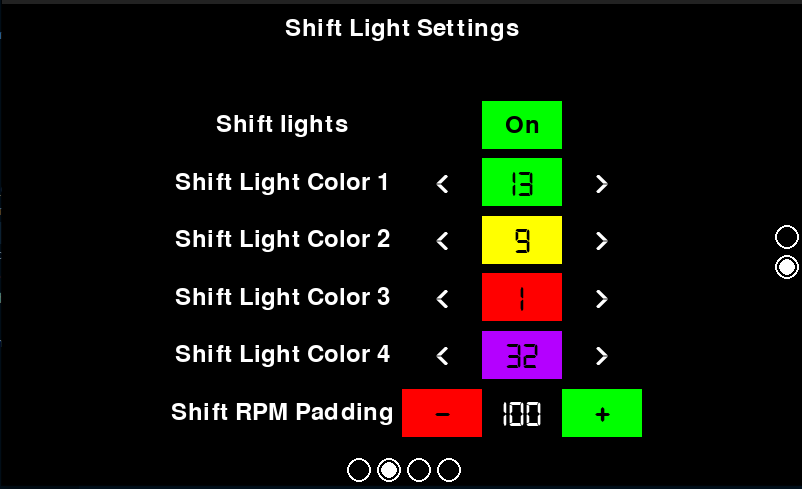
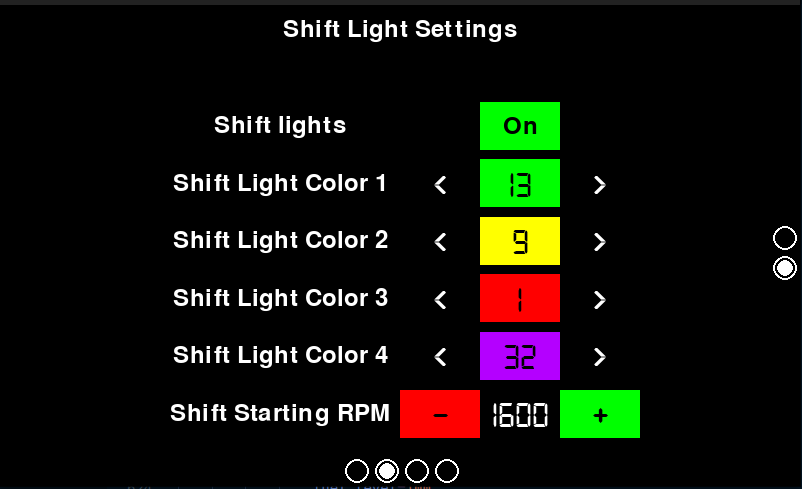
updating shift light settings

diff --git a/Dash/dash.py b/Dash/dash.py
@@ -445,17 +445,17 @@ def main():
 
                         # Check for collision with left rectangle
                         elif mouseX < SCREEN_WIDTH * 0.5 + SCREEN_WIDTH*.1 and mouseX > SCREEN_WIDTH * 0.5 and mouseY < SCREEN_HEIGHT*.8+SCREEN_HEIGHT*.1 and mouseY > SCREEN_HEIGHT*.8:
-                            shift_padding -= 10
+                            shift_padding += 10
 
-                            if shift_padding == 0:
-                                shift_padding = 10
+                            if shift_padding >= 210:
+                                shift_padding = 200
 
                         # Check for collision with right rectangle
                         elif mouseX < SCREEN_WIDTH * 0.7 + SCREEN_WIDTH*.1 and mouseX > SCREEN_WIDTH * 0.7 and mouseY < SCREEN_HEIGHT*.8+SCREEN_HEIGHT*.1 and mouseY > SCREEN_HEIGHT*.8:
-                            shift_padding += 10
+                            shift_padding -= 10
 
-                            if shift_padding == 1010:
-                                shift_padding = 1000
+                            if shift_padding <= 0:
+                                shift_padding = 10
 
                 skip = True
             elif event.type == pygame.MOUSEBUTTONUP:
@@ -583,19 +583,19 @@ def main():
 
                     # Check for collision with left rectangle
                     elif mouseX < SCREEN_WIDTH * 0.5 + SCREEN_WIDTH*.1 and mouseX > SCREEN_WIDTH * 0.5 and mouseY < SCREEN_HEIGHT*.8+SCREEN_HEIGHT*.1 and mouseY > SCREEN_HEIGHT*.8:
-                        shift_padding -= 10
+                        shift_padding += 10
 
-                        if shift_padding == 0:
-                            shift_padding = 10
+                        if shift_padding >= 210:
+                            shift_padding = 200
 
                     # Check for collision with right rectangle
                     elif mouseX < SCREEN_WIDTH * 0.7 + SCREEN_WIDTH*.1 and mouseX > SCREEN_WIDTH * 0.7 and mouseY < SCREEN_HEIGHT*.8+SCREEN_HEIGHT*.1 and mouseY > SCREEN_HEIGHT*.8:
-                        shift_padding += 10
+                        shift_padding -= 10
 
-                        if shift_padding == 1010:
-                            shift_padding = 1000
+                        if shift_padding <= 0:
+                            shift_padding = 10
 
-                time.sleep(.05)
+                time.sleep(.01)
             skip = False
 
         with open("Data/info.txt", "w") as file:
@@ -951,8 +951,8 @@ def main():
 
                 draw_text(screen, "-", font_medium, BLACK, SCREEN_WIDTH * 0.55, SCREEN_HEIGHT*.85)
                 draw_text(screen, "+", font_medium, BLACK, SCREEN_WIDTH * 0.75, SCREEN_HEIGHT*.85)
-                draw_text(screen, f"{shift_padding}", font_small, FONT_COLOR, (SCREEN_WIDTH//2)+SCREEN_WIDTH*.15, SCREEN_HEIGHT*.85)
-                draw_text(screen, "Shift RPM Padding", font_small_clean, FONT_COLOR, (SCREEN_WIDTH//2)-SCREEN_WIDTH*.15, SCREEN_HEIGHT*.85)
+                draw_text(screen, f"{SHIFT - (14 * shift_padding)}", font_small, FONT_COLOR, (SCREEN_WIDTH//2)+SCREEN_WIDTH*.15, SCREEN_HEIGHT*.85)
+                draw_text(screen, "Shift Starting RPM", font_small_clean, FONT_COLOR, (SCREEN_WIDTH//2)-SCREEN_WIDTH*.15, SCREEN_HEIGHT*.85)
 
             elif pages[current_page[0]][current_page[1]] == "Off":
                 screen.fill(BLACK)

diff --git a/readme.md b/readme.md
@@ -36,19 +36,19 @@ Most of the pictures still capture the overall design of the dash, but the readm
   ![Customization Settings Page Screenshot](https://github.com/Carson-Spaniel/Smart-Dash-Interface/blob/main/Screenshots/Customize.png)
 
   - Change font color.
-  - Change Background 1 color (RPM and Fuel level background).
-  - Change Background 2 color (Main background). 
+  - Change Background 1 color: RPM and Fuel level background.
+  - Change Background 2 color: Main background. 
 
 - **Shift Light Customization Page**
 
   ![Shift Light Settings Page Screenshot](https://github.com/Carson-Spaniel/Smart-Dash-Interface/blob/main/Screenshots/Shift.png)
 
   - Shift light toggle.
-  - Shift light color 1 (first color to appear in shift sequence)
-  - Shift light color 2 (second color to appear in shift sequence)
-  - Shift light color 3 (third color to appear in shift sequence)
-  - Shift light color 4 (fourth and blinking color to appear in shift sequence)
-  - Shift Padding (still working on a good description of this but pretty much it changes how close are far from the shift point the lights come on at)
+  - Shift light color 1: First color to appear in shift sequence.
+  - Shift light color 2: Second color to appear in shift sequence.
+  - Shift light color 3: Third color to appear in shift sequence.
+  - Shift light color 4: Fourth and blinking color to appear in shift sequence.
+  - Shift Starting RPM: Where the lights start to turn on.
 
 - **General Settings Page**:
 

diff --git a/upcoming.md b/upcoming.md
@@ -1,0 +1,4 @@
+## This file outlines upcoming updates that are implemented but not in the current version.
+
+- Updated
+  - Shift Light padding: Renamed to "Shift Starting RPM." Displays the point at which the lights start to turn on.
